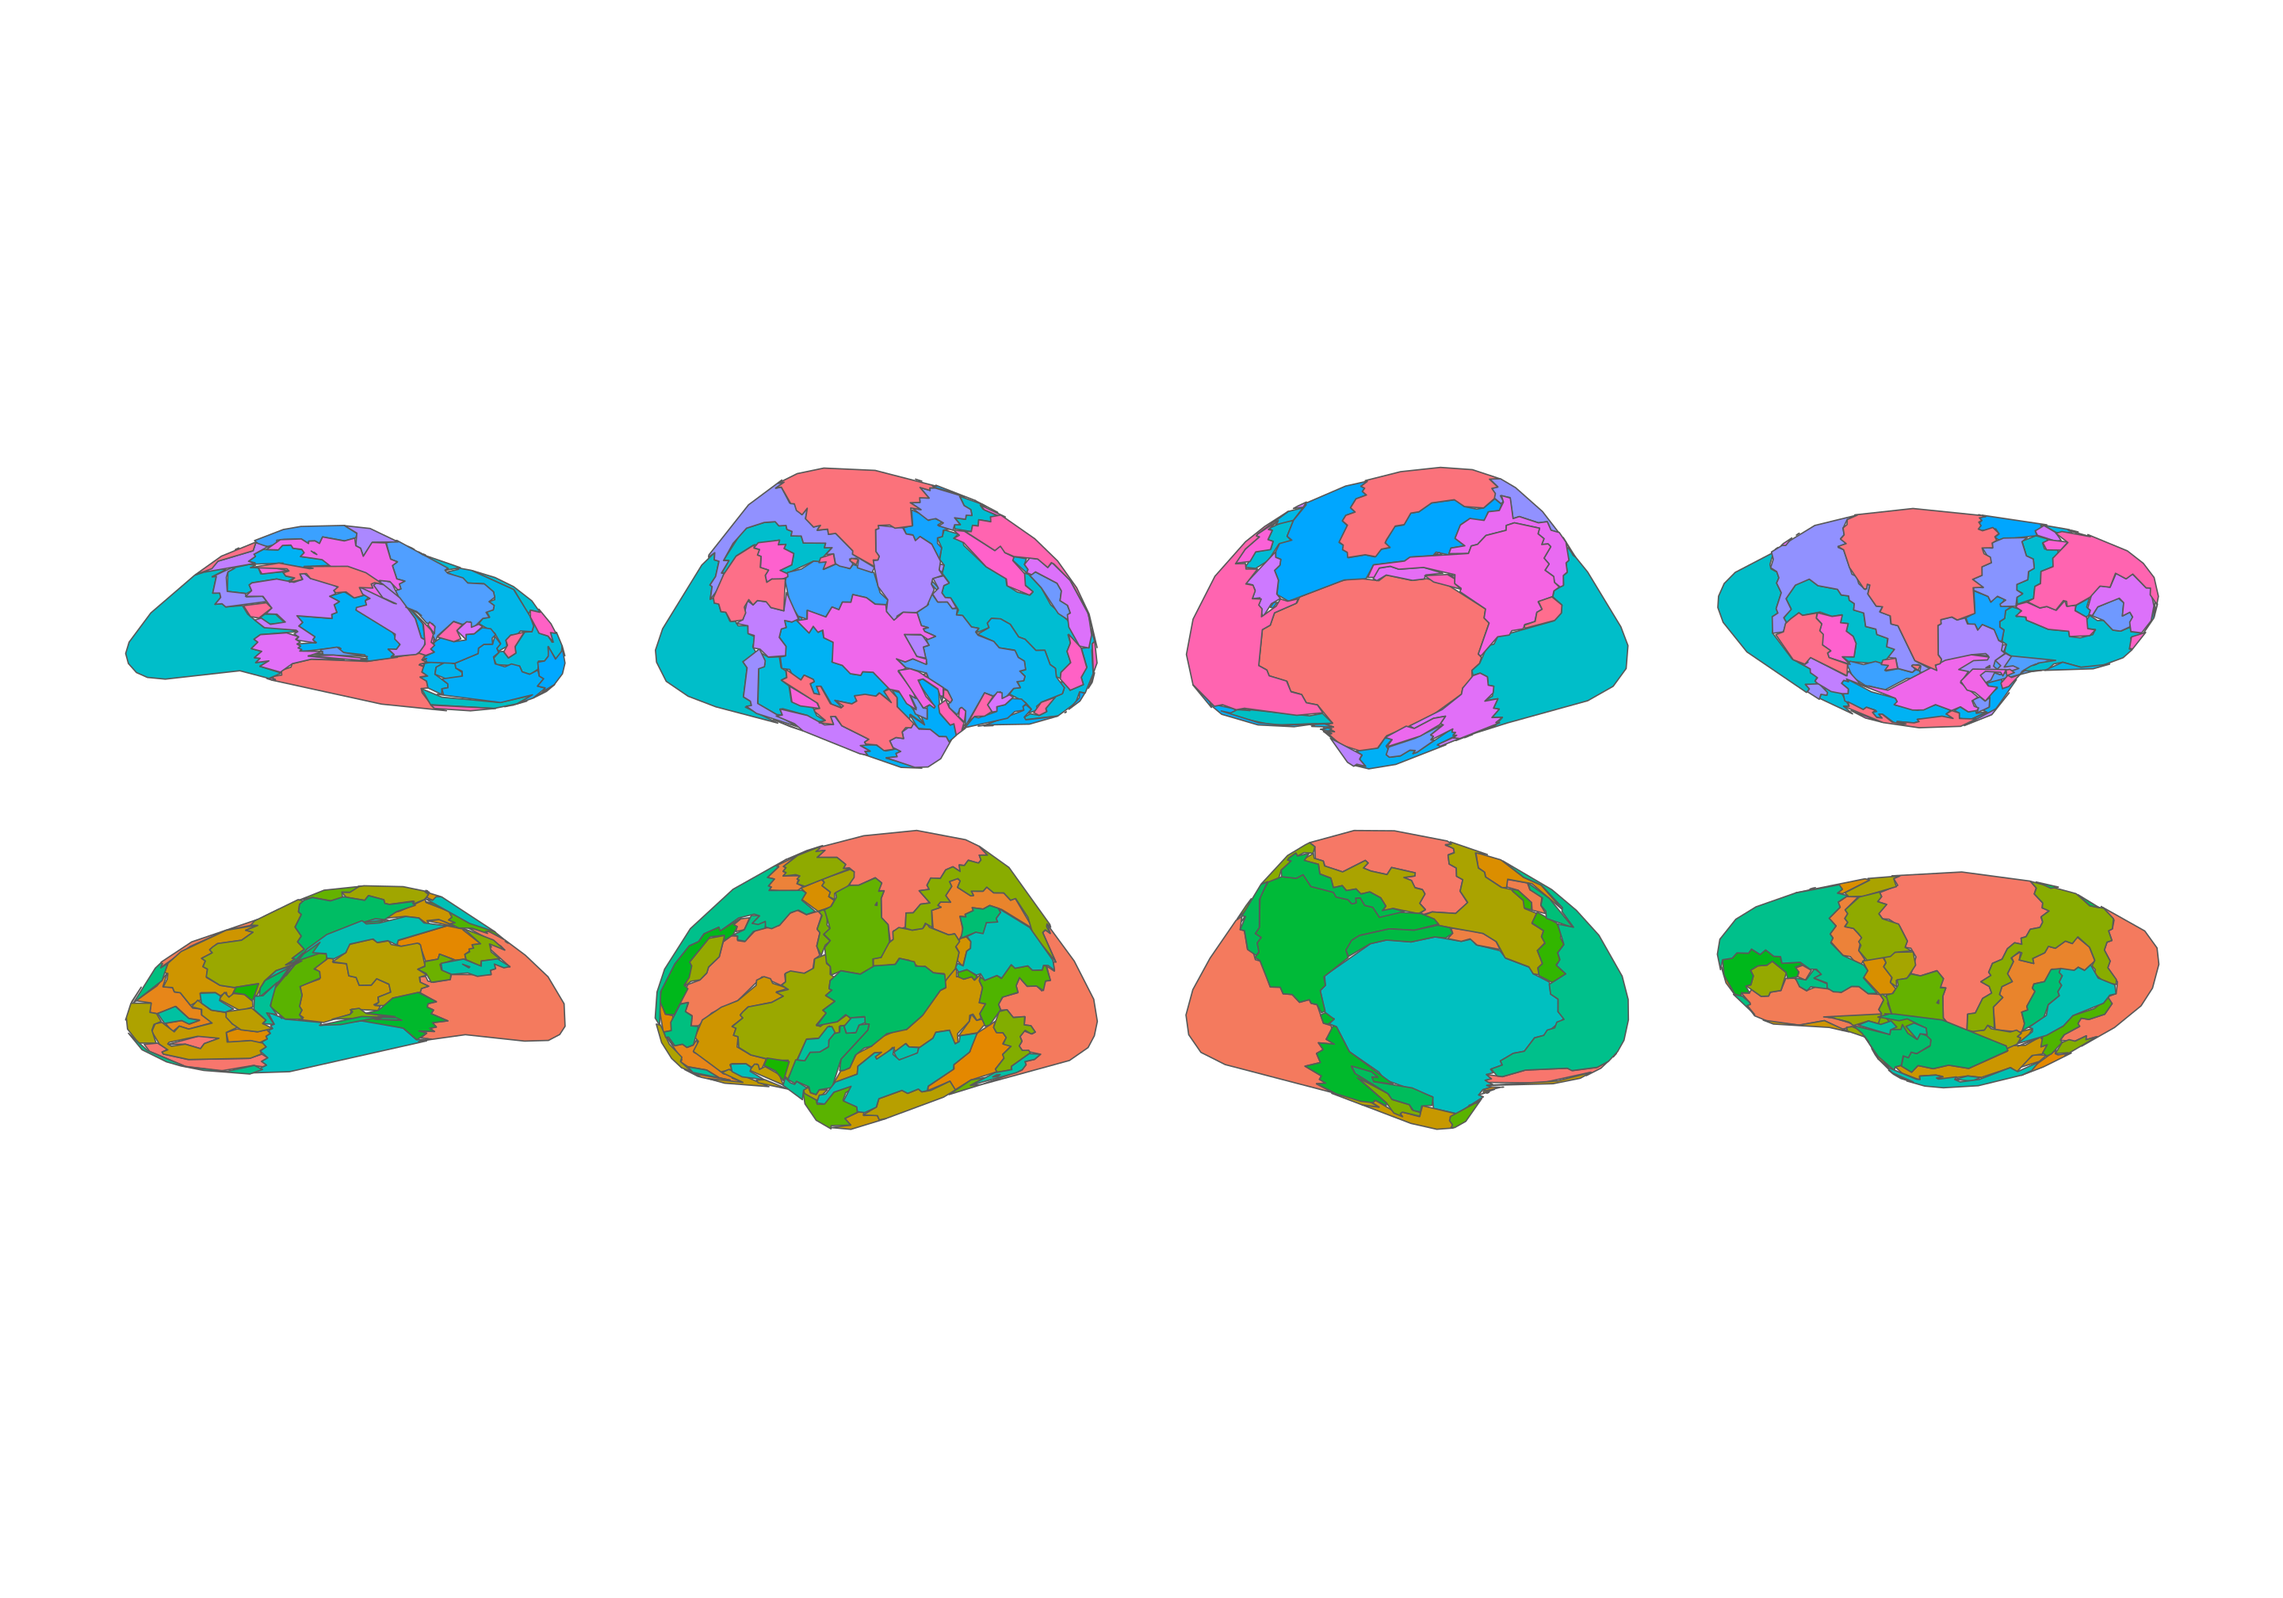
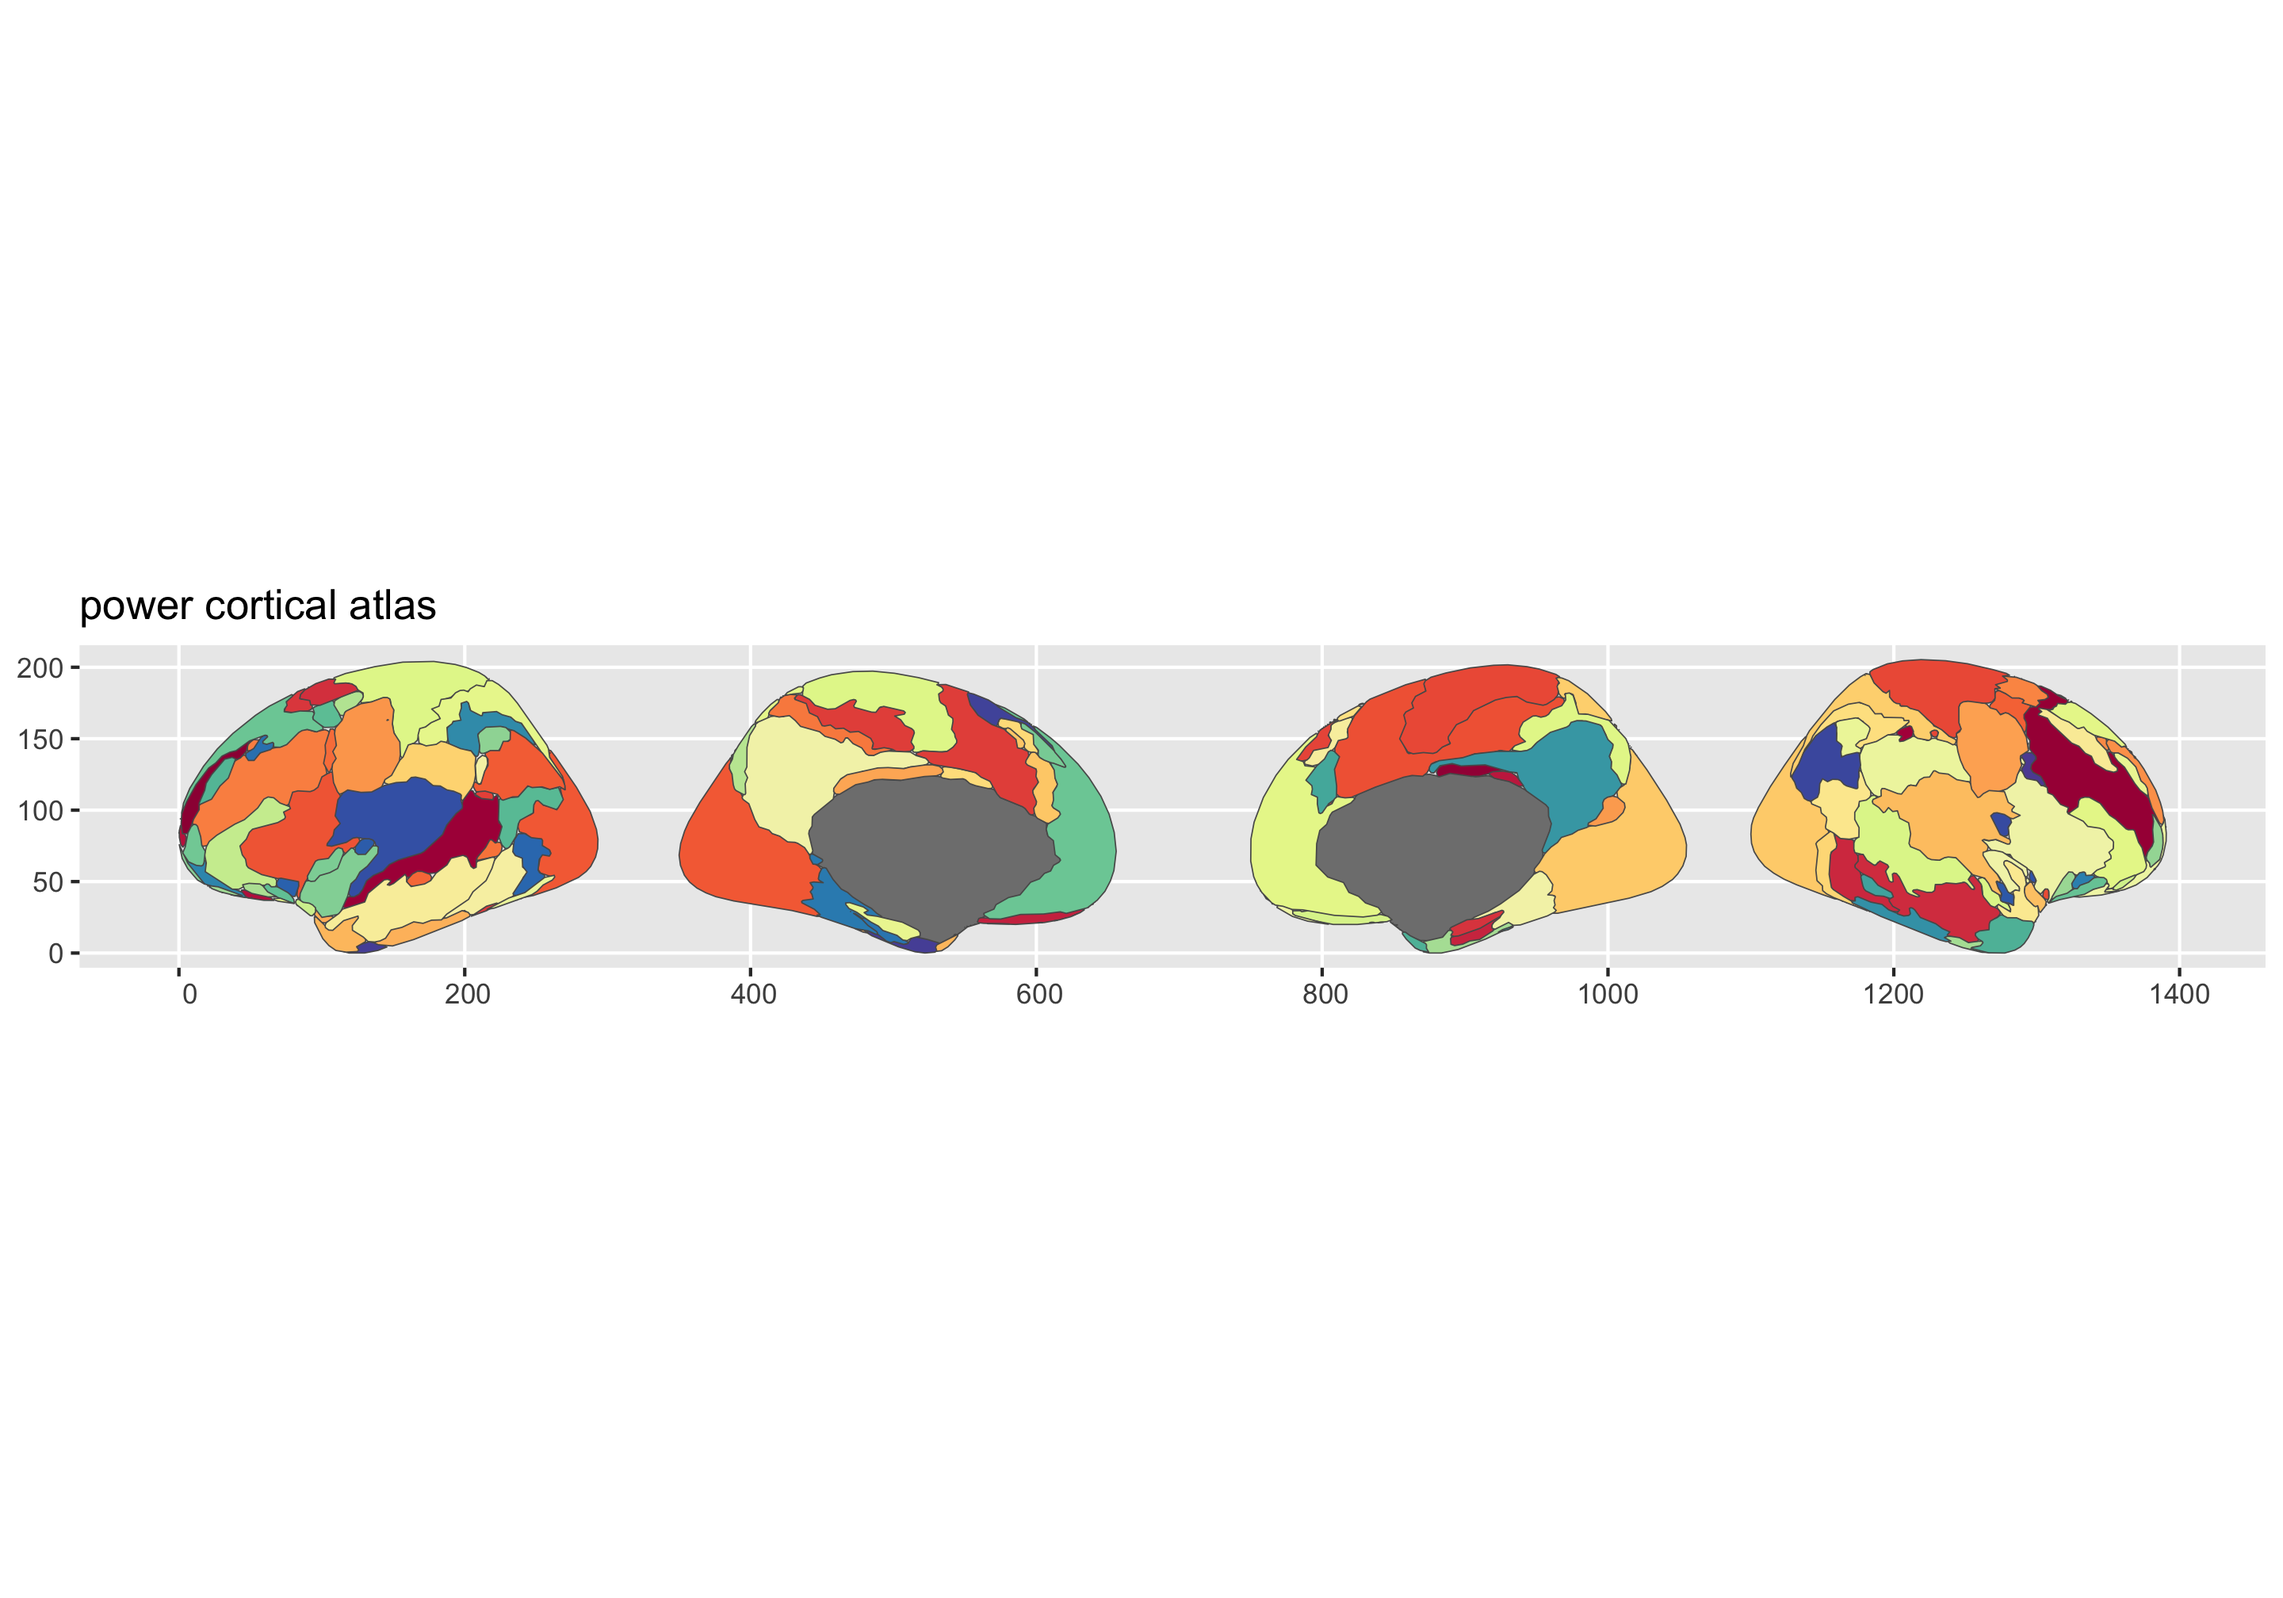
Simplify README plots to use plot() and re-render

Changed region(s): [[0.0, 0.2812, 1.0, 0.7188]]

diff --git a/README.md b/README.md
@@ -10,7 +10,8 @@
 [![r-universe](https://ggseg.r-universe.dev/badges/ggsegPower.png)](https://ggseg.r-universe.dev/ggsegPower)
 <!-- badges: end -->
 
-This package contains dataset for plotting the Power atlas for ggseg.
+This package contains dataset for plotting the Power atlas for
+ggsegverse.
 
 Power JD, Cohen AL, Nelson SM, Wig GS, Barnes KA, Church JA, … &
 Petersen SE (2011). Functional network organization of the human brain.
@@ -48,16 +49,8 @@ library(ggsegPower)
 #> The following object is masked from 'package:stats':
 #> 
 #>     power
-library(ggplot2)
 
-ggplot() +
-  geom_brain(
-    atlas = power(),
-    mapping = aes(fill = label),
-    position = position_brain(hemi ~ view),
-    show.legend = FALSE
-  ) +
-  theme_void()
+plot(power())
 ```
 
 <img src="man/figures/README-power-1.png" style="width:100.0%" />
